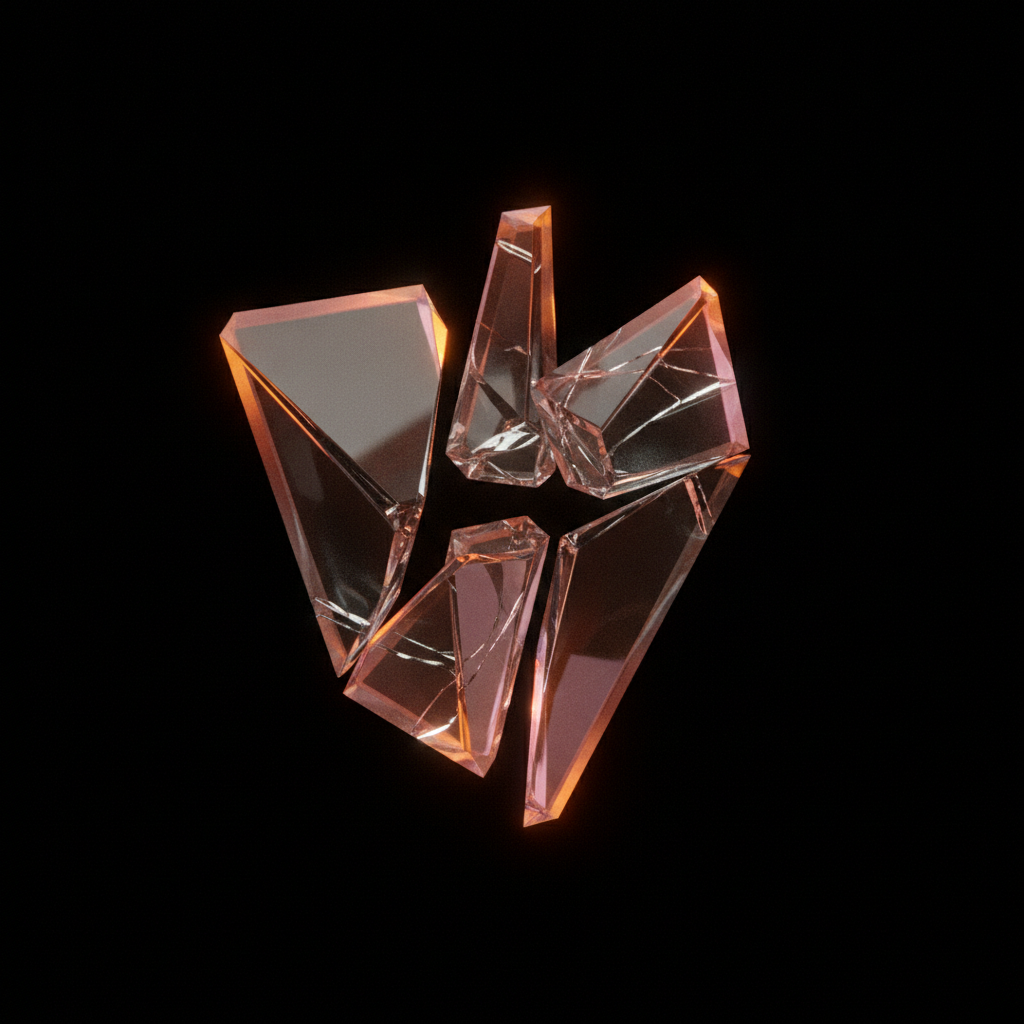
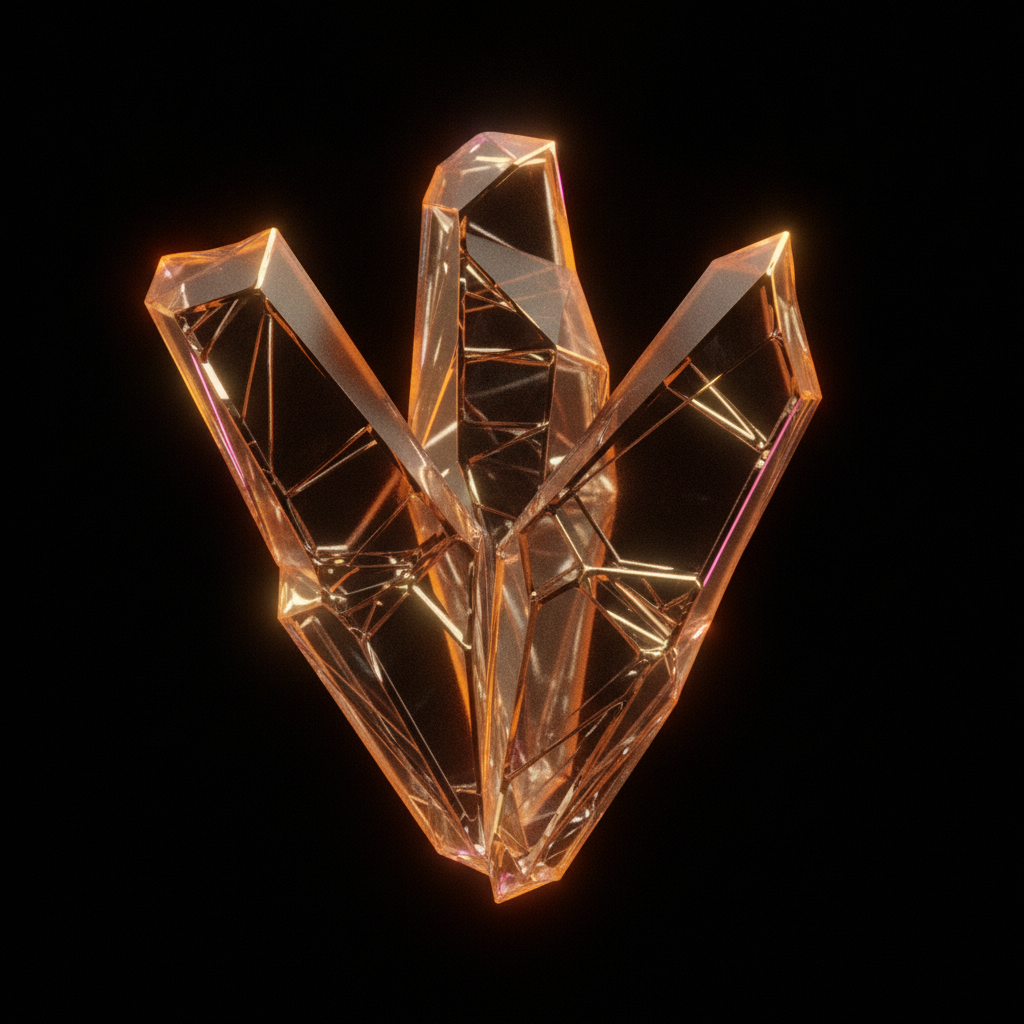
Strengths: amber regen (A1/A2) + glassmorphism hover-reveal + synced swap + bigger slot
Per recommendations + new direction:
- Regenerated A1 (dramatic amber shard-crystal) and A2 (elegant curved-connector network hub,
  no longer a spiky sea-urchin) via the API with an amber-forward style block; picked the best
  of 3 variants each. No visible watermark.
- Slot enlarged: orb max-width min(320px,30vw) -> min(440px,38vw) for more presence.
- Glassmorphism hover-reveal (like the hero field): each orb gets an .orb-frost veil
  (backdrop-filter blur(17px)+dim + faint amber tint) that OBSCURES the image by default; on
  hover a soft radial mask cuts a clear hole that follows the cursor (--mx/--my set on
  mousemove), revealing the sharp render underneath. Disabled on touch (no hover).
- Smoother, synced swap: image now settles (fade + translateY + slight scale) on the SAME
  .6s cubic-bezier as the text item (was image .55s fade-only, text .5s) so the left visual
  and right text move as one unit on down-scroll.

Verified real Chromium: frost obscures by default, hover reveals a clear hole at the cursor,
image+text swap in sync per item, 6 imgs load, slot 440px, 0 errors.

Changed region(s): [[0.125, 0.0938, 0.8125, 0.9062]]

diff --git a/monopo-vn-study.html b/monopo-vn-study.html
@@ -991,10 +991,19 @@ body.ready .mv-contact-footer {
   letter-spacing:.12em;text-transform:uppercase;color:rgba(245,245,245,.5);margin-bottom:clamp(28px,4vw,52px)}
 .mv-strengths-eyebrow::before{content:'\2198';font-size:13px;opacity:.65}
 .mv-strengths-row{display:grid;grid-template-columns:0.72fr 1.28fr;gap:clamp(32px,5vw,72px);align-items:center}
-.mv-strengths-orb{position:relative;width:100%;max-width:min(320px,30vw);aspect-ratio:1/1;justify-self:center;overflow:hidden;border-radius:6px}
-.mv-strengths-orb img{position:absolute;inset:0;width:100%;height:100%;object-fit:cover;opacity:0;
-  transition:opacity .55s cubic-bezier(.22,1,.36,1);will-change:opacity}
-.mv-strengths-orb img:first-child{opacity:1}   /* fallback + mobile (JS syncs the rest to the active item on desktop) */
+.mv-strengths-orb{position:relative;width:100%;max-width:min(440px,38vw);aspect-ratio:1/1;justify-self:center;overflow:hidden;border-radius:8px;
+  --mx:50%;--my:50%;--r:clamp(66px,9vw,120px)}
+.mv-strengths-orb img{position:absolute;inset:0;width:100%;height:100%;object-fit:cover;opacity:0;transform:translate3d(0,18px,0) scale(1.03);
+  transition:opacity .6s cubic-bezier(.22,1,.36,1),transform .6s cubic-bezier(.22,1,.36,1);will-change:opacity,transform}
+.mv-strengths-orb img:first-child{opacity:1;transform:none}   /* fallback + mobile (JS syncs the rest to the active item on desktop) */
+/* frosted-glass veil (hero-like field) over the image; hover cuts a soft clear hole under the cursor */
+.orb-frost{position:absolute;inset:0;z-index:2;pointer-events:none;border-radius:inherit;
+  -webkit-backdrop-filter:blur(17px) saturate(.82) brightness(.6);backdrop-filter:blur(17px) saturate(.82) brightness(.6);
+  background:radial-gradient(58% 58% at 28% 20%,rgba(255,150,40,.10),transparent 62%),rgba(6,6,9,.30)}
+.mv-strengths-orb:hover .orb-frost{
+  -webkit-mask:radial-gradient(circle var(--r) at var(--mx) var(--my),transparent 0,transparent 40%,#000 82%);
+          mask:radial-gradient(circle var(--r) at var(--mx) var(--my),transparent 0,transparent 40%,#000 82%)}
+@media (pointer:coarse){.orb-frost{display:none}}   /* no hover on touch -> show the sharp image */
 @keyframes mvOrb{0%,100%{transform:scale(1) rotate(0deg)}50%{transform:scale(1.05) rotate(10deg)}}
 .mv-str-stage{position:relative;min-height:clamp(220px,34vh,340px)}
 .mv-str-item{position:absolute;left:0;right:0;top:0;margin:0;opacity:0;will-change:opacity,transform;
@@ -1280,7 +1289,7 @@ try{history.scrollRestoration='manual';}catch(e){}</script>
     <div class="mv-str-inner">
       <span class="mv-strengths-eyebrow">Architecting</span>
       <div class="mv-strengths-row">
-        <div class="mv-strengths-orb" aria-hidden="true"><img src="assets/strengths/A1.png" alt=""><img src="assets/strengths/A2.png" alt=""><img src="assets/strengths/A3.png" alt=""></div>
+        <div class="mv-strengths-orb" aria-hidden="true"><img src="assets/strengths/A1.png" alt=""><img src="assets/strengths/A2.png" alt=""><img src="assets/strengths/A3.png" alt=""><div class="orb-frost"></div></div>
         <div class="mv-str-stage">
           <p class="mv-str-item"><sup class="mv-strengths-num">01</sup><b>문제 정의 (착수·진단)</b> — 브랜드의 니즈를 깊이 있게 이해하고 전체 맥락을 파악해, 근본적인 페인 포인트를 폭넓은 인사이트로 확인합니다.</p>
           <p class="mv-str-item"><sup class="mv-strengths-num">02</sup><b>계획 설계</b> — IT·제조·아트·패션·뷰티를 아우르는 넓은 네트워크를 기반으로, 실행 가능한 구체적인 계획을 제시합니다.</p>
@@ -1295,7 +1304,7 @@ try{history.scrollRestoration='manual';}catch(e){}</script>
     <div class="mv-str-inner">
       <span class="mv-strengths-eyebrow">Software Engineering</span>
       <div class="mv-strengths-row">
-        <div class="mv-strengths-orb" aria-hidden="true"><img src="assets/strengths/S1.png" alt=""><img src="assets/strengths/S2.png" alt=""><img src="assets/strengths/S3.png" alt=""></div>
+        <div class="mv-strengths-orb" aria-hidden="true"><img src="assets/strengths/S1.png" alt=""><img src="assets/strengths/S2.png" alt=""><img src="assets/strengths/S3.png" alt=""><div class="orb-frost"></div></div>
         <div class="mv-str-stage">
           <p class="mv-str-item"><sup class="mv-strengths-num">01</sup><b>서비스 기획</b> — 세상의 문제에서 출발합니다. 페인 포인트를 먼저 정의하고 기획을 시작합니다.</p>
           <p class="mv-str-item"><sup class="mv-strengths-num">02</sup><b>프로덕트 개발</b> — 상상 속 프로덕트를 가장 빠르게. 핵심 프로토타입을 며칠 만에 구현합니다.</p>
@@ -1544,9 +1553,13 @@ try{history.scrollRestoration='manual';}catch(e){}</script>
     items.forEach(function(it,i){
       it.style.opacity = i===0?'1':'0';
       it.style.transform = i===0?'none':'translate3d(0,26px,0)';
-      it.style.transition = 'opacity .5s cubic-bezier(.22,1,.36,1), transform .5s cubic-bezier(.22,1,.36,1)';
+      it.style.transition = 'opacity .6s cubic-bezier(.22,1,.36,1), transform .6s cubic-bezier(.22,1,.36,1)';
     });
-    imgs.forEach(function(im,i){ im.style.opacity = i===0?'1':'0'; });   /* image swaps with the active item */
+    imgs.forEach(function(im,i){ im.style.opacity = i===0?'1':'0'; im.style.transform = i===0?'none':'translate3d(0,18px,0) scale(1.03)'; });   /* image settles in sync with its text item */
+    var orb = sec.querySelector('.mv-strengths-orb');
+    if(orb) orb.addEventListener('mousemove', function(e){ var r=orb.getBoundingClientRect();   /* move the frost's clear hole with the cursor */
+      orb.style.setProperty('--mx', ((e.clientX-r.left)/r.width*100).toFixed(1)+'%');
+      orb.style.setProperty('--my', ((e.clientY-r.top)/r.height*100).toFixed(1)+'%'); });
     return { sec:sec, items:items, imgs:imgs, idx:0 };
   });
   if(!secs.length) return;
@@ -1562,7 +1575,8 @@ try{history.scrollRestoration='manual';}catch(e){}</script>
     for(var i=0;i<S.items.length;i++){ var on=i===S.idx;
       S.items[i].style.opacity = on?'1':'0';
       S.items[i].style.transform = on?'none':('translate3d(0,'+(i<S.idx?-26:26)+'px,0)');
-      if(S.imgs[i]) S.imgs[i].style.opacity = on?'1':'0'; }
+      if(S.imgs[i]){ S.imgs[i].style.opacity = on?'1':'0';
+        S.imgs[i].style.transform = on?'none':('translate3d(0,'+(i<S.idx?-18:18)+'px,0) scale(1.03)'); } }
   }
   function armIdle(){ if(idleT) clearTimeout(idleT); idleT = setTimeout(function(){ canStep = true; }, IDLE_GAP); }
   /* gentle eased glide that fills the viewport with the captured category — replaces the instant "턱" snap.
